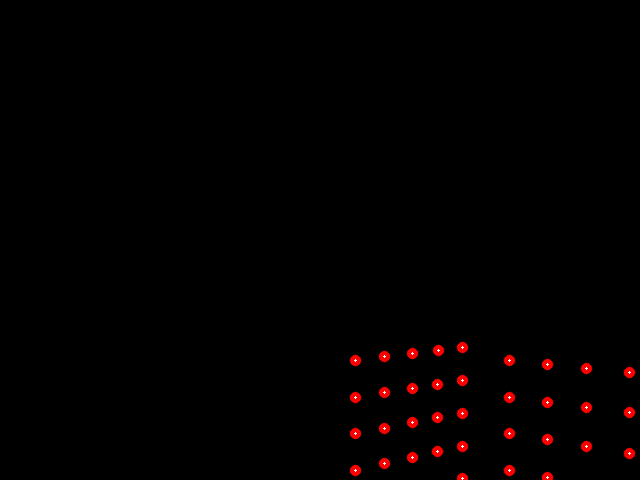
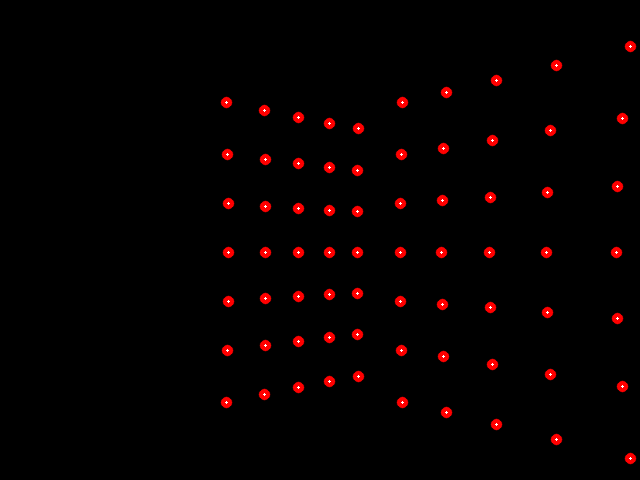
Add the functionality  to render distortion and tweak the output to represent a calibration image.

diff --git a/Utils/CalScene/CalSceneLib/Arguments.h b/Utils/CalScene/CalSceneLib/Arguments.h
@@ -27,11 +27,13 @@ namespace NVL_App
 		double _distance;
 		Vec2d _focals;
 		Point2d _center;
+		Vec4d _distortion;
 		Size _imageSize;
 		int _decimals;
+
 	public:
-		Arguments(double blockSize, Vec2i& gridSize, Vec2d& shiftXY, Vec2d& RotYZ, double angle, double distance, Vec2d& focals, Point2d& center, Size& imageSize, int decimals) :
-			_blockSize(blockSize), _gridSize(gridSize), _shiftXY(shiftXY), _RotYZ(RotYZ), _angle(angle), _distance(distance), _focals(focals), _center(center), _imageSize(imageSize), _decimals(decimals) {}
+		Arguments(double blockSize, const Vec2i& gridSize, const Vec2d& shiftXY, const Vec2d& RotYZ, double angle, double distance, const Vec2d& focals, const Point2d& center, const Vec4d& distortion, Size& imageSize, int decimals) :
+			_blockSize(blockSize), _gridSize(gridSize), _shiftXY(shiftXY), _RotYZ(RotYZ), _angle(angle), _distance(distance), _focals(focals), _center(center), _distortion(distortion), _imageSize(imageSize), _decimals(decimals) {}
 
 		inline double& GetBlockSize() { return _blockSize; }
 		inline Vec2i& GetGridSize() { return _gridSize; }
@@ -43,5 +45,6 @@ namespace NVL_App
 		inline Point2d& GetCenter() { return _center; }
 		inline Size& GetImageSize() { return _imageSize; }
 		inline int& GetDecimals() { return _decimals; }
+		inline Vec4d& GetDistortion() { return _distortion; }
 	};
 }

diff --git a/Utils/CalScene/CalSceneLib/Board.cpp b/Utils/CalScene/CalSceneLib/Board.cpp
@@ -19,10 +19,10 @@ using namespace NVL_App;
  * @param pose The pose matrix
  * @param scenePoints The 3D points in the scene
  */
-Board::Board(Mat & camera, Mat & pose, vector<Point3d> & scenePoints) : _camera(camera), _pose(pose), _scenePoints(scenePoints)
+Board::Board(Mat & camera, Mat & pose, Mat& distortion, vector<Point3d> & scenePoints) : _camera(camera), _pose(pose), _distortion(distortion), _scenePoints(scenePoints)
 {
 	auto rvec = Vec3d(), tvec = Vec3d(); NVLib::PoseUtils::Pose2Vectors(_pose, rvec, tvec);
-	projectPoints(scenePoints, rvec, tvec, camera, noArray(), _imagePoints);
+	projectPoints(scenePoints, rvec, tvec, camera, distortion, _imagePoints);
 }
 
 //--------------------------------------------------

diff --git a/Utils/CalScene/CalScene/Engine.cpp b/Utils/CalScene/CalScene/Engine.cpp
@@ -66,8 +66,9 @@ void Engine::Run()
     Mat pose_2 = PoseHelper::FindPose(arguments.get(), 1);
 
     _logger->Log(1, "Generating the boards");
-    auto board_1 = Board(cameraMatrix, pose_1, scenePoints);
-    auto board_2 = Board(cameraMatrix, pose_2, scenePoints);
+    Mat distortion = Mat(arguments.get()->GetDistortion());
+    auto board_1 = Board(cameraMatrix, pose_1, distortion, scenePoints);
+    auto board_2 = Board(cameraMatrix, pose_2, distortion, scenePoints);
 
     _logger->Log(1, "Generating the image");
     Mat image = Mat_<Vec3b>::zeros(arguments->GetImageSize());

diff --git a/Utils/CalScene/CalSceneLib/ArgumentLoader.cpp b/Utils/CalScene/CalSceneLib/ArgumentLoader.cpp
@@ -34,8 +34,9 @@ unique_ptr<Arguments> ArgumentLoader::Load(const string& path)
 	Point2d center; reader["center"] >> center;
 	Size imageSize; reader["image_size"] >> imageSize;
 	int decimals; reader["decimals"] >> decimals;
+	Vec4d distortion; reader["distortion"] >> distortion;
 
 	reader.release();
 
-	return make_unique<Arguments>(blockSize, gridSize, shiftXY, RotYZ, angle, distance, focals, center, imageSize, decimals);
+	return make_unique<Arguments>(blockSize, gridSize, shiftXY, RotYZ, angle, distance, focals, center, distortion, imageSize, decimals);
 }

diff --git a/Utils/CalScene/CalSceneLib/Board.h b/Utils/CalScene/CalSceneLib/Board.h
@@ -23,11 +23,11 @@ namespace NVL_App
 	private:
 		Mat _camera;
 		Mat _pose;
+		Mat _distortion;
 		vector<Point3d> _scenePoints;
 		vector<Point2d> _imagePoints;
-
 	public:
-		Board(Mat & camera, Mat & pose, vector<Point3d> & scenePoints);
+		Board(Mat & camera, Mat & pose, Mat& distortion, vector<Point3d> & scenePoints);
 
 		void Render(Mat& image);
 		void Save(ostream& writer);
